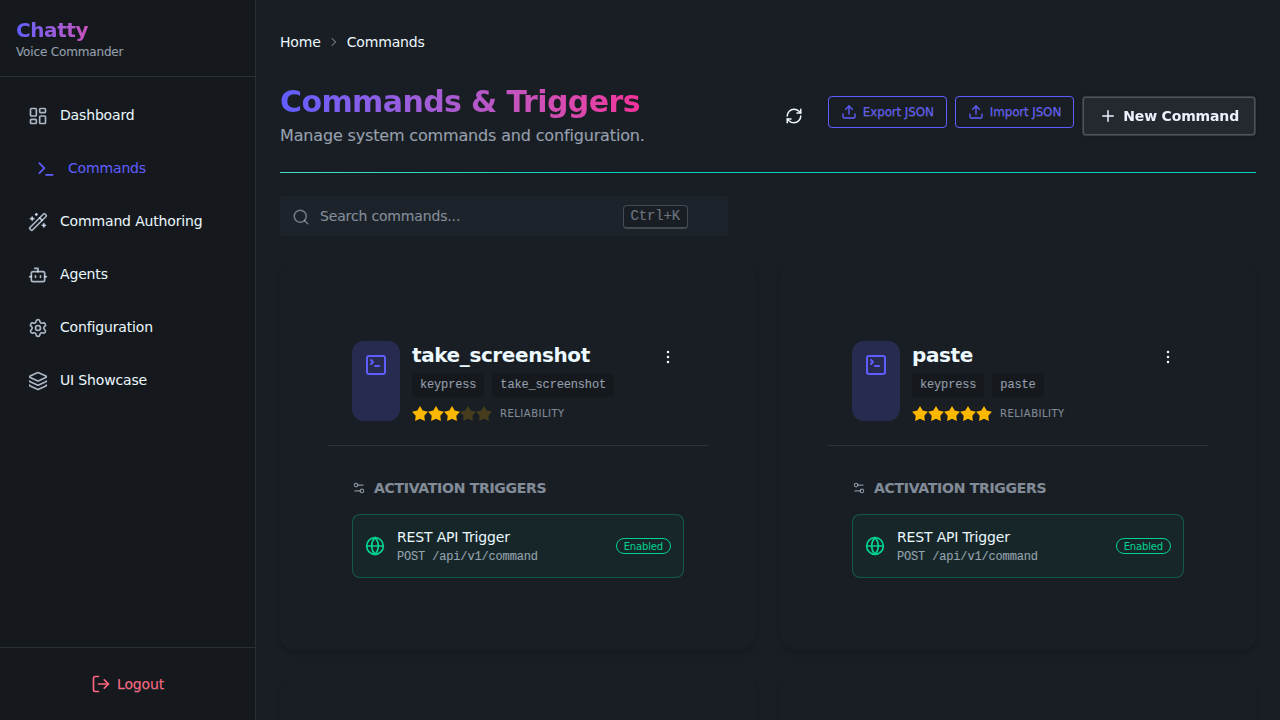
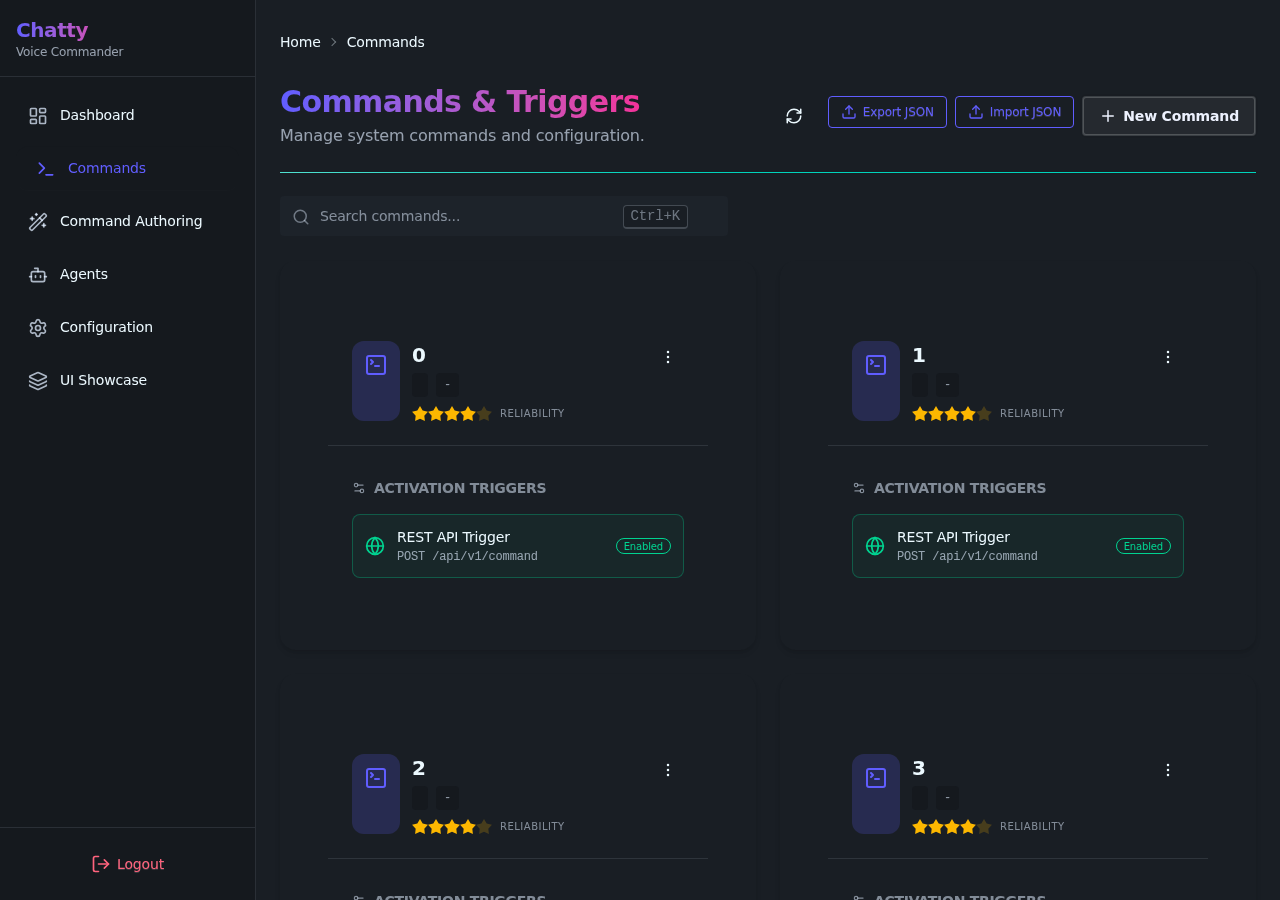
feat: upgrade Playwright screenshot tests for deterministic documentation
- Replace unreliable waitForTimeout() with waitForLoadState('networkidle') and expect() assertions
- Add route mocking for deterministic API data (health, commands, config, audio, models)
- Add helper functions: mockDashboardAPIs(), mockConfigurationAPIs(), mockCommandsAPIs()
- Set consistent viewport size (1280x900) for all screenshots
- Add command-authoring screenshot test
- Clean up old screenshots that didn't match naming convention (plain kebab-case)
- Total: 7 screenshot tests covering all major pages

👾 Generated with [Letta Code](https://letta.com)

diff --git a/webui/frontend/tests/e2e/screenshots.spec.ts b/webui/frontend/tests/e2e/screenshots.spec.ts
@@ -1,4 +1,4 @@
-import { test, expect } from "@playwright/test";
+import { test, expect, Page } from "@playwright/test";
 import path from "path";
 import fs from "fs";
 import { fileURLToPath } from 'url';
@@ -8,75 +8,286 @@ const __dirname = path.dirname(__filename);
 
 const SCREENSHOTS_DIR = path.resolve(__dirname, "../../../../docs/screenshots");
 
+// ---------------------------------------------------------------------------
+// Mock Data (shared across screenshot tests for consistent documentation)
+// ---------------------------------------------------------------------------
+
+const HEALTH_RESPONSE = {
+  status: "healthy",
+  uptime: "3d 12h 45m",
+  commands_executed: 1247,
+  version: "1.0.0",
+  cpu_usage: "23.5",
+  memory_usage: "61.2",
+};
+
+const AGENT_STATS_RESPONSE = {
+  contexts: {
+    "discord-advisor": {
+      persona_id: "helperbot",
+      platform: "discord",
+      last_updated: "2026-03-26T10:00:00Z",
+      context_key: "discord-ctx-1",
+    },
+    "twitch-advisor": {
+      persona_id: "streambot",
+      platform: "twitch",
+      last_updated: "2026-03-26T09:30:00Z",
+      context_key: "twitch-ctx-1",
+    },
+  },
+  total: 2,
+};
+
+const COMMANDS_RESPONSE = [
+  { name: "take_screenshot", description: "Captures screen content" },
+  { name: "cycle_window", description: "Cycles through active windows" },
+  { name: "toggle_mute", description: "Toggle microphone mute state" },
+  { name: "volume_up", description: "Increase system volume" },
+];
+
+const MOCK_CONFIG = {
+  advisors: {
+    providers: {
+      api_key: "",
+      base_url: "http://localhost:11434/v1",
+      model: "llama3",
+    },
+  },
+  voice: { enabled: true },
+  ui: { theme: "dark" },
+  services: { voiceCommands: true, restApi: true },
+  _env_overrides: { api_key: false, base_url: false, model: false },
+};
+
+const MOCK_AUDIO_DEVICES = {
+  input: ["USB Microphone", "Built-in Microphone"],
+  output: ["External Speakers", "HDMI Audio", "Built-in Speakers"],
+};
+
+const MOCK_VOICE_MODELS = {
+  models: [
+    {
+      name: "hey_jarvis_v0.1.onnx",
+      path: "/models/hey_jarvis_v0.1.onnx",
+      size_bytes: 1482752,
+      size_human: "1.4 MB",
+      modified: "2026-01-15T10:30:00Z",
+      state: "idle",
+    },
+    {
+      name: "ok_computer_v2.onnx",
+      path: "/models/ok_computer_v2.onnx",
+      size_bytes: 2097152,
+      size_human: "2.0 MB",
+      modified: "2026-02-20T14:00:00Z",
+      state: "computer",
+    },
+  ],
+  total_count: 2,
+  total_size_bytes: 3579904,
+  total_size_human: "3.4 MB",
+};
+
+const MOCK_LLM_MODELS = {
+  data: [
+    { id: "gpt-4o-mini" },
+    { id: "llama-3.1-8b-instant" },
+    { id: "mixtral-8x7b" },
+  ],
+};
+
+// ---------------------------------------------------------------------------
+// Helpers
+// ---------------------------------------------------------------------------
+
+/** Set up all API route mocks for dashboard screenshots. */
+async function mockDashboardAPIs(page: Page) {
+  await page.route("**/health", (route) =>
+    route.fulfill({ status: 200, json: HEALTH_RESPONSE })
+  );
+  await page.route("**/api/v1/advisors/context/stats", (route) =>
+    route.fulfill({ status: 200, json: AGENT_STATS_RESPONSE })
+  );
+  await page.route("**/api/v1/commands", (route) =>
+    route.fulfill({ status: 200, json: COMMANDS_RESPONSE })
+  );
+}
+
+/** Set up all API route mocks for configuration screenshots. */
+async function mockConfigurationAPIs(page: Page) {
+  await page.route("**/api/v1/config", (route) => {
+    if (route.request().method() === "GET") {
+      return route.fulfill({ status: 200, json: MOCK_CONFIG });
+    }
+    return route.fulfill({ status: 200, json: { status: "ok" } });
+  });
+  await page.route("**/api/v1/audio/devices", (route) =>
+    route.fulfill({ status: 200, json: MOCK_AUDIO_DEVICES })
+  );
+  await page.route("**/api/v1/models/files", (route) =>
+    route.fulfill({ status: 200, json: MOCK_VOICE_MODELS })
+  );
+  await page.route("**/v1/models", (route) =>
+    route.fulfill({ status: 200, json: MOCK_LLM_MODELS })
+  );
+  await page.route("**/api/v1/advisors/**", (route) =>
+    route.fulfill({ status: 200, json: { contexts: {}, total: 0 } })
+  );
+}
+
+/** Set up mocks for commands page. */
+async function mockCommandsAPIs(page: Page) {
+  await page.route("**/api/v1/commands", (route) =>
+    route.fulfill({ status: 200, json: COMMANDS_RESPONSE })
+  );
+  await page.route("**/api/v1/config", (route) =>
+    route.fulfill({ status: 200, json: MOCK_CONFIG })
+  );
+}
+
+// ---------------------------------------------------------------------------
+// Test Setup
+// ---------------------------------------------------------------------------
+
 test.describe("Documentation Screenshots", () => {
-    test.beforeAll(() => {
-        fs.mkdirSync(SCREENSHOTS_DIR, { recursive: true });
-    });
+  test.beforeAll(() => {
+    fs.mkdirSync(SCREENSHOTS_DIR, { recursive: true });
+  });
 
-    test("dashboard", async ({ page }) => {
-        await page.goto("/");
-        await expect(page).toHaveURL(/dashboard/);
-        await page.waitForTimeout(1500);
-        await page.screenshot({ path: path.join(SCREENSHOTS_DIR, "dashboard.png"), fullPage: true });
-    });
+  // Use consistent viewport for all screenshots
+  test.use({ viewport: { width: 1280, height: 900 } });
 
-    test("login", async ({ page }) => {
-        await page.goto("/login");
-        await page.waitForTimeout(500);
-        await page.screenshot({ path: path.join(SCREENSHOTS_DIR, "login.png"), fullPage: true });
-    });
+  test("dashboard", async ({ page }) => {
+    await mockDashboardAPIs(page);
 
-    test("configuration-general", async ({ page }) => {
-        await page.goto("/");
-        await page.getByRole("link", { name: "Configuration" }).click();
-        await expect(page).toHaveURL(/configuration/);
-        await page.waitForTimeout(500);
-        await page.screenshot({ path: path.join(SCREENSHOTS_DIR, "configuration-general.png"), fullPage: true });
-    });
+    await page.goto("/");
+    // Redirects to dashboard with --no-auth
+    await expect(page).toHaveURL(/dashboard/);
 
-    test("configuration-models", async ({ page }) => {
-        await page.goto("/");
-        await page.getByRole("link", { name: "Configuration" }).click();
-        await page.waitForTimeout(300);
-        const modelsSection = page.locator("text=Voice Models (ONNX)").first();
-        if (await modelsSection.isVisible()) {
-            await modelsSection.scrollIntoViewIfNeeded();
-            await page.waitForTimeout(300);
-        }
-        await page.screenshot({ path: path.join(SCREENSHOTS_DIR, "configuration-models.png"), fullPage: true });
-    });
+    // Wait for dashboard to fully load
+    await expect(page.getByRole("heading", { name: "Dashboard" })).toBeVisible();
+    await expect(page.locator(".stat-value", { hasText: "Healthy" })).toBeVisible();
+    await page.waitForLoadState('networkidle');
 
-    test("configuration-llm", async ({ page }) => {
-        await page.goto("/");
-        await page.getByRole("link", { name: "Configuration" }).click();
-        await page.waitForTimeout(300);
-        const llmTab = page.locator("text=LLM").first();
-        if (await llmTab.isVisible()) {
-            await llmTab.scrollIntoViewIfNeeded();
-            await page.waitForTimeout(300);
-        }
-        await page.screenshot({ path: path.join(SCREENSHOTS_DIR, "configuration-llm.png"), fullPage: true });
+    await page.screenshot({
+      path: path.join(SCREENSHOTS_DIR, "dashboard.png"),
+      fullPage: true
     });
+  });
 
-    test("configuration-services", async ({ page }) => {
-        await page.goto("/");
-        await page.getByRole("link", { name: "Configuration" }).click();
-        await page.waitForTimeout(300);
-        const servicesTab = page.locator("text=Services").first();
-        if (await servicesTab.isVisible()) {
-            await servicesTab.scrollIntoViewIfNeeded();
-            await page.waitForTimeout(300);
-        }
-        await page.screenshot({ path: path.join(SCREENSHOTS_DIR, "configuration-services.png"), fullPage: true });
-    });
+  test("login", async ({ page }) => {
+    await page.goto("/login");
 
-    test("commands", async ({ page }) => {
-        await page.goto("/");
-        const commandsLink = page.getByRole('link', { name: "Commands" }).first();
-        if (await commandsLink.isVisible()) {
-            await commandsLink.click();
-            await page.waitForTimeout(500);
-        }
-        await page.screenshot({ path: path.join(SCREENSHOTS_DIR, "commands.png"), fullPage: true });
+    // In --no-auth mode, login redirects to dashboard
+    // So we check what actually renders
+    const loginHeading = page.getByRole("heading", { name: /login|chatty commander/i });
+    await expect(loginHeading.first()).toBeVisible();
+    await page.waitForLoadState('networkidle');
+
+    await page.screenshot({
+      path: path.join(SCREENSHOTS_DIR, "login.png"),
+      fullPage: true
     });
+  });
+
+  test("configuration", async ({ page }) => {
+    await mockConfigurationAPIs(page);
+
+    await page.goto("/");
+    await page.getByRole("link", { name: "Configuration" }).click();
+
+    await expect(page).toHaveURL(/configuration/);
+    await expect(page.getByRole("heading", { name: /configuration/i })).toBeVisible();
+    await page.waitForLoadState('networkidle');
+
+    await page.screenshot({
+      path: path.join(SCREENSHOTS_DIR, "configuration.png"),
+      fullPage: true
+    });
+  });
+
+  test("configuration-voice-models", async ({ page }) => {
+    await mockConfigurationAPIs(page);
+
+    await page.goto("/configuration");
+    await expect(page.getByRole("heading", { name: /configuration/i })).toBeVisible();
+
+    // Scroll to voice models section if present
+    const modelsHeading = page.locator("text=Voice Models (ONNX)").first();
+    if (await modelsHeading.isVisible()) {
+      await modelsHeading.scrollIntoViewIfNeeded();
+    }
+
+    await page.waitForLoadState('networkidle');
+
+    await page.screenshot({
+      path: path.join(SCREENSHOTS_DIR, "configuration-voice-models.png"),
+      fullPage: true
+    });
+  });
+
+  test("configuration-audio", async ({ page }) => {
+    await mockConfigurationAPIs(page);
+
+    await page.goto("/configuration");
+    await expect(page.getByRole("heading", { name: /configuration/i })).toBeVisible();
+
+    // Scroll to audio device section
+    const audioHeading = page.locator("text=Audio Devices").first();
+    if (await audioHeading.isVisible()) {
+      await audioHeading.scrollIntoViewIfNeeded();
+    }
+
+    await page.waitForLoadState('networkidle');
+
+    await page.screenshot({
+      path: path.join(SCREENSHOTS_DIR, "configuration-audio.png"),
+      fullPage: true
+    });
+  });
+
+  test("commands", async ({ page }) => {
+    await mockCommandsAPIs(page);
+
+    await page.goto("/");
+    await page.getByRole("link", { name: "Commands" }).click();
+
+    await expect(page).toHaveURL(/commands/);
+    await expect(page.getByRole("heading", { name: /commands/i })).toBeVisible();
+    await page.waitForLoadState('networkidle');
+
+    await page.screenshot({
+      path: path.join(SCREENSHOTS_DIR, "commands.png"),
+      fullPage: true
+    });
+  });
+
+  test("command-authoring", async ({ page }) => {
+    await mockCommandsAPIs(page);
+
+    // Mock command generation endpoint
+    await page.route("**/api/v1/commands/generate", (route) =>
+      route.fulfill({
+        status: 200,
+        json: {
+          name: "toggle_mute",
+          display_name: "Toggle Mute",
+          description: "Toggle microphone mute state",
+          actions: [{ type: "keypress", keys: "ctrl+shift+m" }],
+        },
+      })
+    );
+
+    await page.goto("/commands/authoring");
+
+    await expect(page).toHaveURL(/authoring/);
+    await expect(page.getByRole("heading", { name: /command authoring|author command/i })).toBeVisible();
+    await page.waitForLoadState('networkidle');
+
+    await page.screenshot({
+      path: path.join(SCREENSHOTS_DIR, "command-authoring.png"),
+      fullPage: true
+    });
+  });
 });
